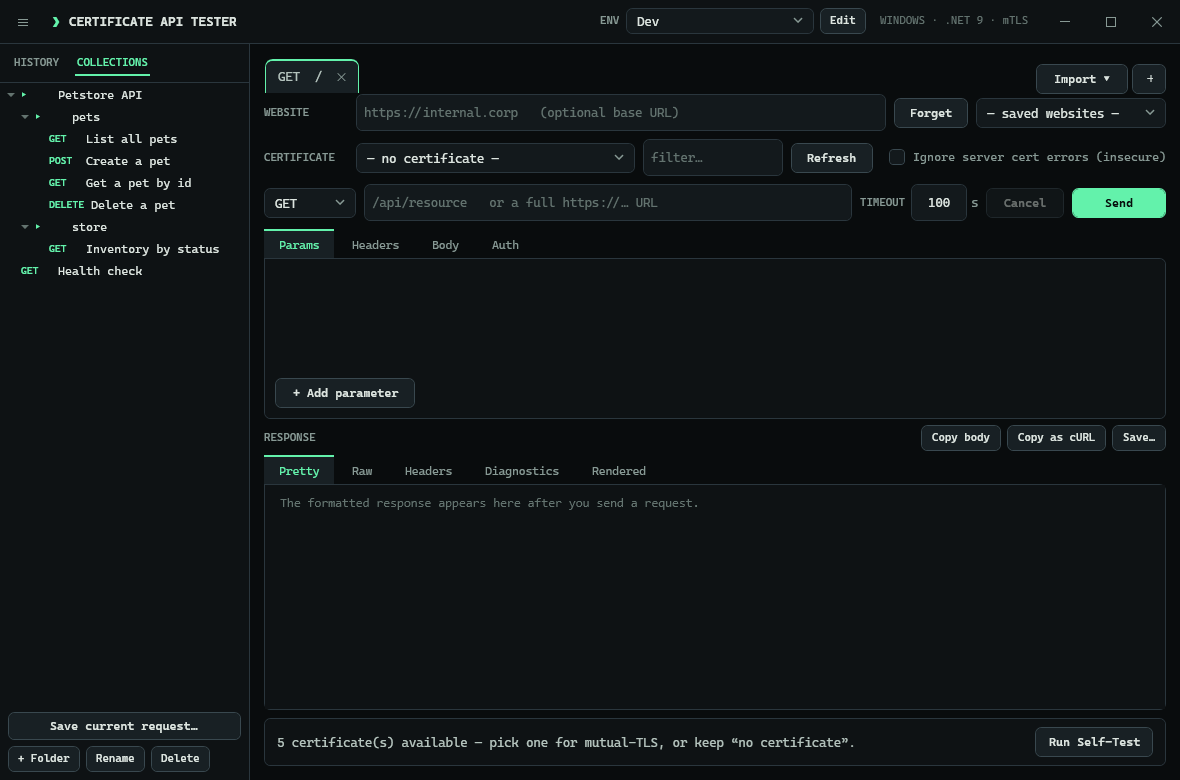
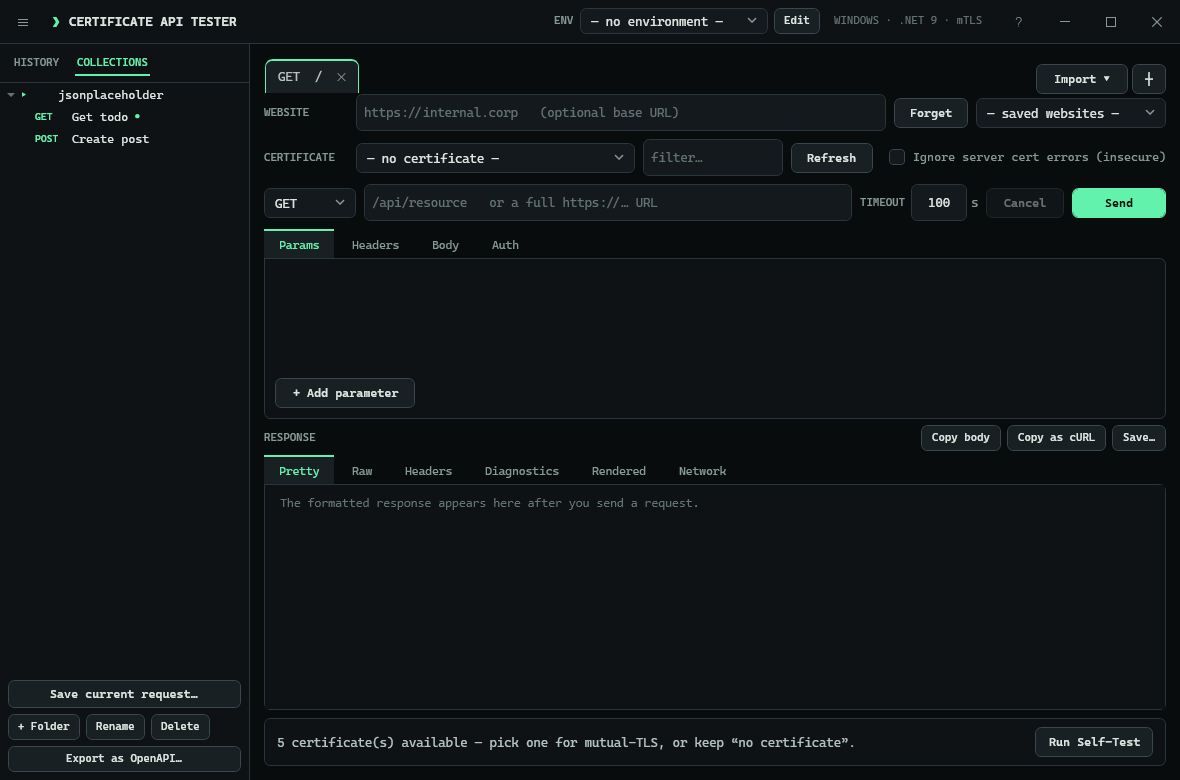
Refresh the collections screenshot with known-good markers and export

diff --git a/docs/index.html b/docs/index.html
@@ -176,8 +176,8 @@
       </figure>
       <div class="two">
         <figure>
-          <img src="assets/shot-collections.png" alt="Collections sidebar with folders of saved requests">
-          <figcaption>Collections &mdash; saved requests, foldered, alongside history.</figcaption>
+          <img src="assets/shot-collections.png" alt="Collections sidebar with folders of saved requests and known-good markers">
+          <figcaption>Collections &mdash; saved requests with known-good markers, plus OpenAPI export.</figcaption>
         </figure>
         <figure>
           <img src="assets/shot-environments.png" alt="Environments and variables editor">

diff --git a/README.md b/README.md
@@ -64,7 +64,7 @@ It runs as a single self-contained `.exe` with no external dependencies — no i
   <img alt="Rendered website view" src="docs/assets/shot-rendered.png" width="860" />
 </div>
 
-**Organise saved requests into collections, and switch between environments of `{{variables}}`**
+**Organise saved requests into collections — with known-good markers — and switch between environments of `{{variables}}`**
 
 <div align="center">
   <img alt="Collections sidebar" src="docs/assets/shot-collections.png" width="820" />